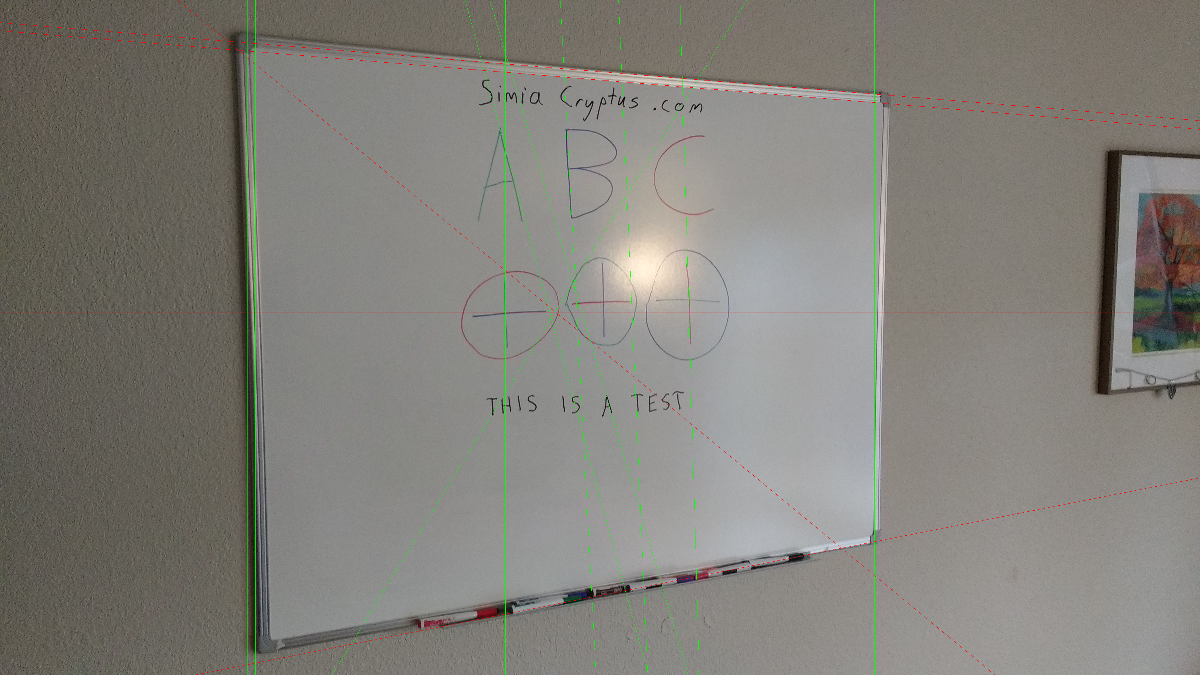
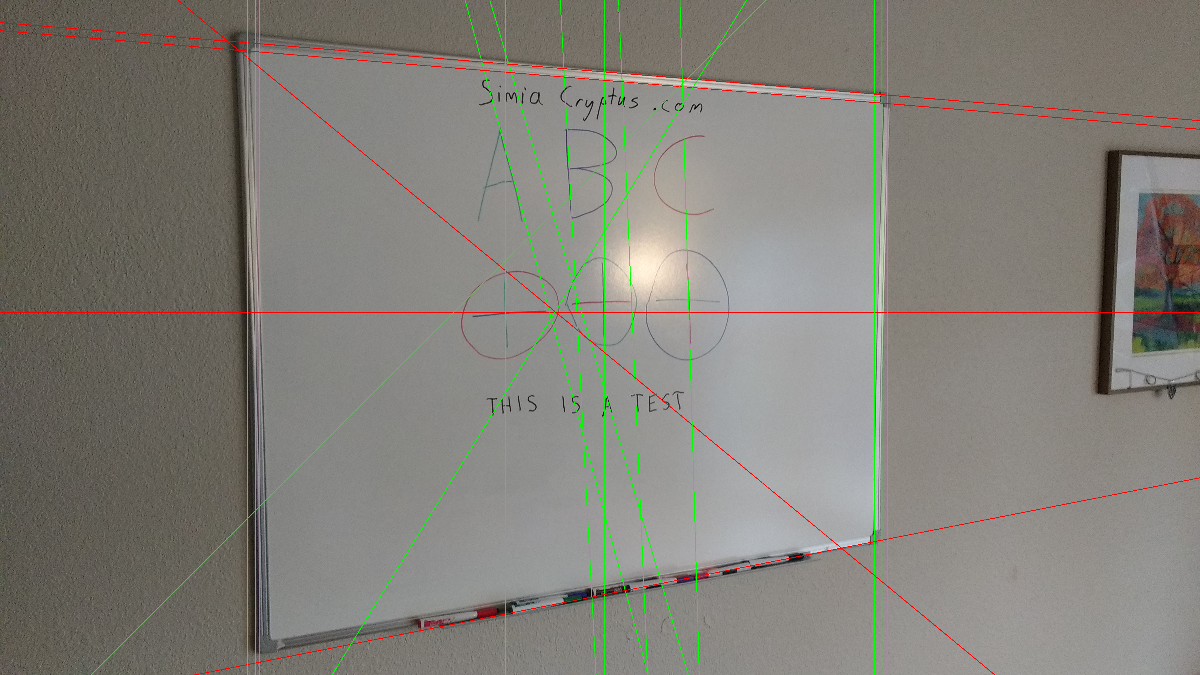
Updated prototype end-to-end whiteboard processing demo

diff --git a/reports/WhiteboardWorkflow/workflow.md b/reports/WhiteboardWorkflow/workflow.md
@@ -1,6 +1,6 @@
 First, we load an photo of a whiteboard
 
-Code from [WhiteboardWorkflow.scala:64](../../src/test/scala/WhiteboardWorkflow.scala#L64) executed in 0.91 seconds: 
+Code from [WhiteboardWorkflow.scala:64](../../src/test/scala/WhiteboardWorkflow.scala#L64) executed in 0.94 seconds: 
 ```java
     ImageIO.read(getClass.getClassLoader.getResourceAsStream("Whiteboard1.jpg"))
 ```
@@ -12,7 +12,7 @@ Returns:
 
 We start looking for long edges which can be used to find the board:
 
-Code from [WhiteboardWorkflow.scala:70](../../src/test/scala/WhiteboardWorkflow.scala#L70) executed in 0.13 seconds: 
+Code from [WhiteboardWorkflow.scala:70](../../src/test/scala/WhiteboardWorkflow.scala#L70) executed in 0.15 seconds: 
 ```java
     val localMaxRadius = 10
     val minCounts = 5
@@ -29,7 +29,7 @@ Returns:
 
 
 
-Code from [WhiteboardWorkflow.scala:69](../../src/test/scala/WhiteboardWorkflow.scala#L69) executed in 0.90 seconds: 
+Code from [WhiteboardWorkflow.scala:69](../../src/test/scala/WhiteboardWorkflow.scala#L69) executed in 0.92 seconds: 
 ```java
     val rulerDetector: DetectLine[GrayU8] = log.code(() ⇒ {
       val localMaxRadius = 10
@@ -52,6 +52,7 @@ Returns:
 Code from [WhiteboardWorkflow.scala:80](../../src/test/scala/WhiteboardWorkflow.scala#L80) executed in 0.06 seconds: 
 ```java
     gfx.drawImage(sourceImage, 0, 0, null)
+    gfx.setStroke(new BasicStroke(3))
     found.asScala.foreach(line ⇒ {
       if(Math.abs(line.slope.x) > Math.abs(line.slope.y)) {
         val x1 = 0
@@ -82,7 +83,7 @@ Returns:
 
 This can then be searched for the largest, most upright, and rectangular shape
 
-Code from [WhiteboardWorkflow.scala:106](../../src/test/scala/WhiteboardWorkflow.scala#L106) executed in 0.14 seconds: 
+Code from [WhiteboardWorkflow.scala:107](../../src/test/scala/WhiteboardWorkflow.scala#L107) executed in 0.10 seconds: 
 ```java
     val horizontals = found.asScala.filter(line ⇒ Math.abs(line.slope.x) > Math.abs(line.slope.y)).toList
     val verticals = found.asScala.filter(line ⇒ Math.abs(line.slope.x) <= Math.abs(line.slope.y)).toList
@@ -119,7 +120,7 @@ Returns:
 
 
 
-Code from [WhiteboardWorkflow.scala:134](../../src/test/scala/WhiteboardWorkflow.scala#L134) executed in 0.06 seconds: 
+Code from [WhiteboardWorkflow.scala:135](../../src/test/scala/WhiteboardWorkflow.scala#L135) executed in 0.05 seconds: 
 ```java
     gfx.drawImage(sourceImage, 0, 0, null)
     gfx.setStroke(new BasicStroke(3))
@@ -134,7 +135,7 @@ Returns:
 
 We then distort the image using a homographic transform back into a rectangle. First we estimate the correct size of the image:
 
-Code from [WhiteboardWorkflow.scala:142](../../src/test/scala/WhiteboardWorkflow.scala#L142) executed in 0.00 seconds: 
+Code from [WhiteboardWorkflow.scala:143](../../src/test/scala/WhiteboardWorkflow.scala#L143) executed in 0.00 seconds: 
 ```java
     (
       (bestQuadrangle.getSideLength(0) + bestQuadrangle.getSideLength(2)).toInt / 2,
@@ -151,7 +152,7 @@ Returns:
 
 We derive the transform:
 
-Code from [WhiteboardWorkflow.scala:150](../../src/test/scala/WhiteboardWorkflow.scala#L150) executed in 0.09 seconds: 
+Code from [WhiteboardWorkflow.scala:151](../../src/test/scala/WhiteboardWorkflow.scala#L151) executed in 0.08 seconds: 
 ```java
     val transformModel: ModelMatcher[Homography2D_F64, AssociatedPair] = {
       val maxIterations = 100
@@ -178,7 +179,7 @@ Returns:
 
 And we transform the image:
 
-Code from [WhiteboardWorkflow.scala:168](../../src/test/scala/WhiteboardWorkflow.scala#L168) executed in 1.39 seconds: 
+Code from [WhiteboardWorkflow.scala:169](../../src/test/scala/WhiteboardWorkflow.scala#L169) executed in 1.39 seconds: 
 ```java
     val distortion: ImageDistort[Planar[GrayF32], Planar[GrayF32]] = {
       val interpolation = FactoryInterpolation.bilinearPixelS(classOf[GrayF32], BorderType.ZERO)
@@ -203,7 +204,7 @@ Returns:
 
 Now we refine our selection using some region selection, perhaps by manual selection
 
-Code from [WhiteboardWorkflow.scala:186](../../src/test/scala/WhiteboardWorkflow.scala#L186) executed in 0.00 seconds: 
+Code from [WhiteboardWorkflow.scala:187](../../src/test/scala/WhiteboardWorkflow.scala#L187) executed in 0.00 seconds: 
 ```java
     new Rectangle2D_F32(100, 40, 2700, 2100)
 ```
@@ -215,12 +216,12 @@ Returns:
 
 
 
-Code from [WhiteboardWorkflow.scala:189](../../src/test/scala/WhiteboardWorkflow.scala#L189) executed in 0.03 seconds: 
+Code from [WhiteboardWorkflow.scala:190](../../src/test/scala/WhiteboardWorkflow.scala#L190) executed in 0.03 seconds: 
 ```java
     gfx.drawImage(primaryImage, 0, 0, null)
     gfx.setStroke(new BasicStroke(3))
     gfx.setColor(Color.RED)
-    gfx.drawRect(tileBounds.p0.x.toInt, tileBounds.p0.x.toInt, tileBounds.getWidth.toInt, tileBounds.getHeight.toInt)
+    gfx.drawRect(tileBounds.p0.x.toInt, tileBounds.p0.y.toInt, tileBounds.getWidth.toInt, tileBounds.getHeight.toInt)
 ```
 
 Returns: 
@@ -228,9 +229,9 @@ Returns:
 
 
 
-Code from [WhiteboardWorkflow.scala:195](../../src/test/scala/WhiteboardWorkflow.scala#L195) executed in 0.00 seconds: 
+Code from [WhiteboardWorkflow.scala:196](../../src/test/scala/WhiteboardWorkflow.scala#L196) executed in 0.00 seconds: 
 ```java
-    primaryImage.getSubimage(tileBounds.p0.x.toInt, tileBounds.p0.x.toInt, tileBounds.getWidth.toInt, tileBounds.getHeight.toInt)
+    primaryImage.getSubimage(tileBounds.p0.x.toInt, tileBounds.p0.y.toInt, tileBounds.getWidth.toInt, tileBounds.getHeight.toInt)
 ```
 
 Returns: 
@@ -240,7 +241,7 @@ Returns:
 
 Dectection of markings uses the luminosity
 
-Code from [WhiteboardWorkflow.scala:204](../../src/test/scala/WhiteboardWorkflow.scala#L204) executed in 0.98 seconds: 
+Code from [WhiteboardWorkflow.scala:205](../../src/test/scala/WhiteboardWorkflow.scala#L205) executed in 1.02 seconds: 
 ```java
     val bandImg: GrayF32 = hsv.getBand(2)
     val to = ConvertBufferedImage.convertTo(bandImg, null)
@@ -254,7 +255,7 @@ Returns:
 
 ...by detecting local variations within a gaussian radius
 
-Code from [WhiteboardWorkflow.scala:211](../../src/test/scala/WhiteboardWorkflow.scala#L211) executed in 4.32 seconds: 
+Code from [WhiteboardWorkflow.scala:212](../../src/test/scala/WhiteboardWorkflow.scala#L212) executed in 4.30 seconds: 
 ```java
     val single = ConvertBufferedImage.convertFromSingle(colorBand, null, classOf[GrayF32])
     val binary = new GrayU8(single.width, single.height)
@@ -270,7 +271,7 @@ Returns:
 
 
 
-Code from [WhiteboardWorkflow.scala:218](../../src/test/scala/WhiteboardWorkflow.scala#L218) executed in 0.03 seconds: 
+Code from [WhiteboardWorkflow.scala:219](../../src/test/scala/WhiteboardWorkflow.scala#L219) executed in 0.03 seconds: 
 ```java
     VisualizeBinaryData.renderBinary(localGaussian, false, null)
 ```
@@ -282,7 +283,7 @@ Returns:
 
 This binarization is then refined by eroding and thinning operations
 
-Code from [WhiteboardWorkflow.scala:223](../../src/test/scala/WhiteboardWorkflow.scala#L223) executed in 0.26 seconds: 
+Code from [WhiteboardWorkflow.scala:224](../../src/test/scala/WhiteboardWorkflow.scala#L224) executed in 0.26 seconds: 
 ```java
     var prefiltered = localGaussian
     prefiltered = BinaryImageOps.erode4(prefiltered, 1, null)
@@ -297,7 +298,7 @@ Returns:
 
 We can now identify segments which may be markings:
 
-Code from [WhiteboardWorkflow.scala:231](../../src/test/scala/WhiteboardWorkflow.scala#L231) executed in 18.80 seconds: 
+Code from [WhiteboardWorkflow.scala:232](../../src/test/scala/WhiteboardWorkflow.scala#L232) executed in 18.61 seconds: 
 ```java
     val input = ConvertBufferedImage.convertFrom(thresholdImg, null: GrayF32)
     val imageType = ImageType.single(classOf[GrayF32])
@@ -309,12 +310,12 @@ Code from [WhiteboardWorkflow.scala:231](../../src/test/scala/WhiteboardWorkflow
 
 Returns: 
 ```
-    (1107,boofcv.struct.image.GrayS32@a1217f9)
+    (1080,boofcv.struct.image.GrayS32@a1217f9)
 ```
 
 
 
-Code from [WhiteboardWorkflow.scala:239](../../src/test/scala/WhiteboardWorkflow.scala#L239) executed in 0.04 seconds: 
+Code from [WhiteboardWorkflow.scala:240](../../src/test/scala/WhiteboardWorkflow.scala#L240) executed in 0.04 seconds: 
 ```java
     VisualizeRegions.regions(segmentation, superpixels, null)
 ```
@@ -326,7 +327,7 @@ Returns:
 
 For each segment, we categorize and colorize each using some logic
 
-Code from [WhiteboardWorkflow.scala:244](../../src/test/scala/WhiteboardWorkflow.scala#L244) executed in 7.90 seconds: 
+Code from [WhiteboardWorkflow.scala:245](../../src/test/scala/WhiteboardWorkflow.scala#L245) executed in 7.87 seconds: 
 ```java
     val regionMemberCount = new GrowQueue_I32
     regionMemberCount.resize(superpixels)
